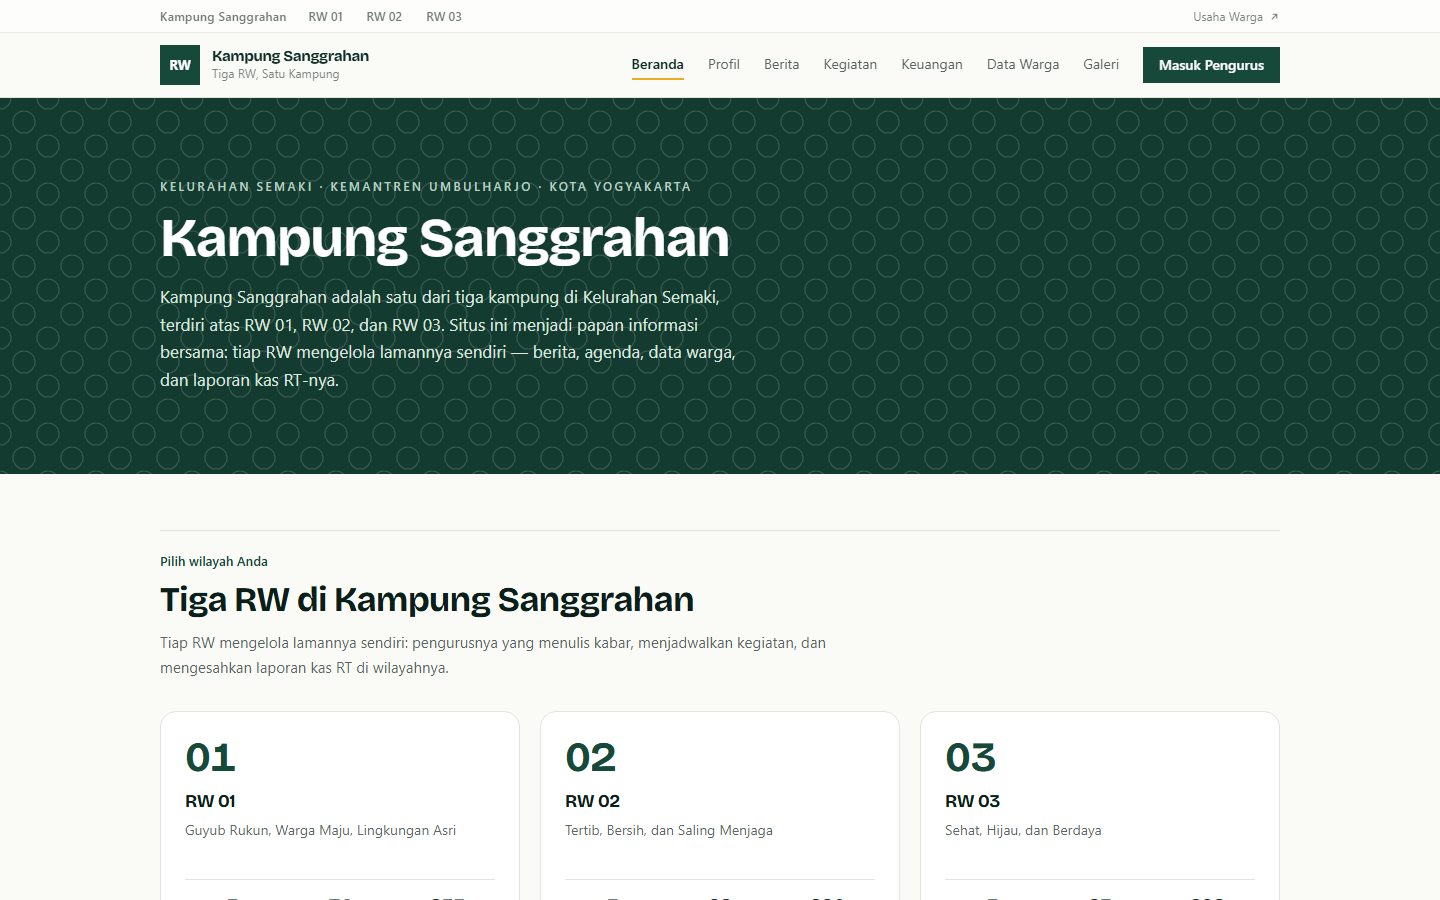
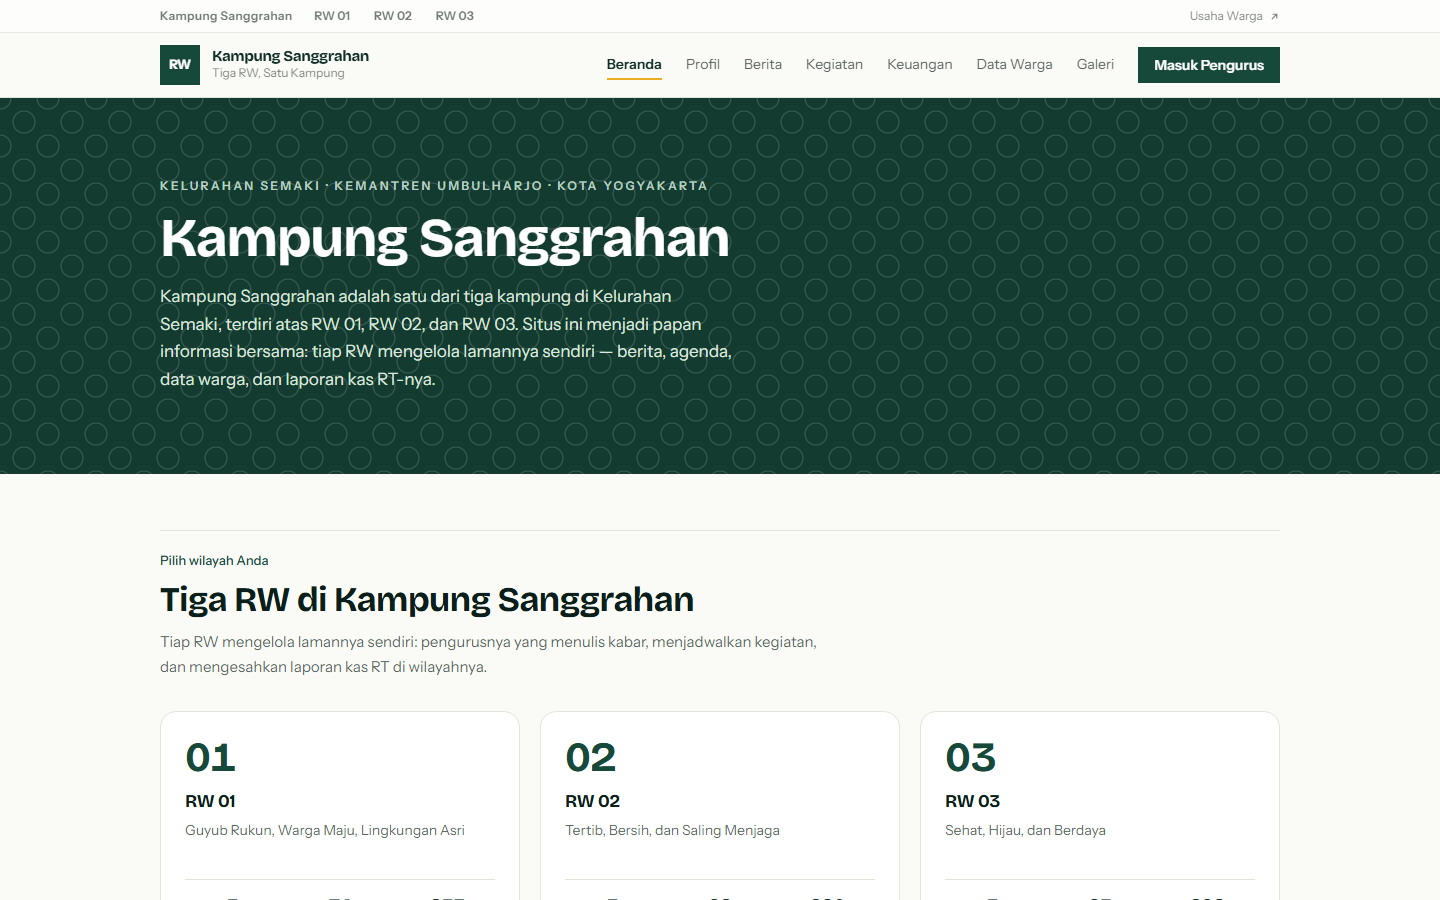
Terapkan font teks yang selama ini tidak terpakai
Variabel font ada di <body>, sedangkan --font-sans di :root merujuknya, sehingga
nilainya tidak sah dan isi halaman tampil dengan font sistem meski berkasnya tetap
terunduh. Kelas font dipindahkan ke <html>. Uji baru memeriksa font yang benar-benar
dipakai, dan tangkapan layar README diambil ulang.

Claude-Session: https://claude.ai/code/session_01JyUMYauGonALHZenSSJSS6

diff --git a/src/app/layout.tsx b/src/app/layout.tsx
@@ -48,8 +48,11 @@ export default function RootLayout({
   children,
 }: Readonly<{ children: React.ReactNode }>) {
   return (
-    <html lang="id">
-      <body className={`${judul.variable} ${teks.variable} font-sans antialiased`}>
+    // Kelas font harus di <html>, bukan <body>: --font-sans di globals.css berada di
+    // :root dan merujuk --font-teks. Kalau variabelnya baru ada di <body>, rujukan itu
+    // tidak sah dan peramban diam-diam memakai font sistem.
+    <html lang="id" className={`${judul.variable} ${teks.variable}`}>
+      <body className="font-sans antialiased">
         <a href="#konten" className="tautan-lewati tanpa-cetak">
           Lewati ke konten utama
         </a>
